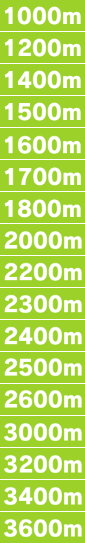
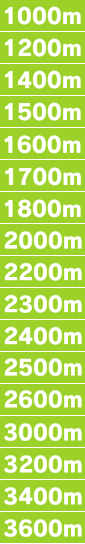
画像認識微調整

Changed region(s): [[0.1882, 0.25, 0.7294, 0.2812], [0.7529, 0.25, 0.9647, 0.2812], [0.0471, 0.25, 0.1647, 0.2812]]

diff --git a/src/components/OpenCV.vue b/src/components/OpenCV.vue
@@ -141,6 +141,7 @@ export default {
 
         scale = 212 / dy[1];
       }
+      console.log(scale);
       cv.resize(src, scaled, new cv.Size(src.cols * scale, src.rows * scale));
       const center = [0, 1].map(t => Math.ceil(allows.reduce((a,b) => a + b[t], 0) / 4));
       const base_points = Array(5).fill(0).map((_, i) => [center[0] - 330, center[1] - 500 + 212 * i]);
@@ -168,8 +169,8 @@ export default {
       
       // レース種別をテンプレートマッチングで取得
       const race = base_points.map(([_x, _y]) => {
-        const y = _y + 12;
-        const h = 24;
+        const y = _y + 13;
+        const h = 21;
         let x = _x + 192;
 
         const field_match = match(scaled, { x, w:25, y, h }, template.field, red);
@@ -201,6 +202,7 @@ export default {
       ]
       if (index.filter(x => x < 0).length > 0) {
         console.log('認識失敗');
+        console.error(index);
         finish();
         return;
       }
